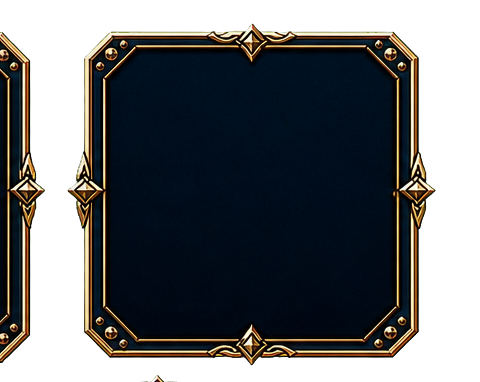
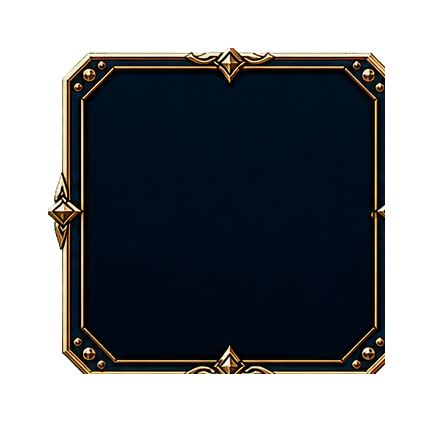
Remove stray art from fantasy frame with stage edit

Changed region(s): [[0.0, 0.0576, 0.9307, 0.9503], [0.3002, 0.9791, 0.3603, 1.0]]

diff --git a/src/styles.css b/src/styles.css
@@ -49,7 +49,7 @@ canvas {
   padding: 0 clamp(10px, 3vw, 20px) 14px;
   border: var(--fantasy-window-border) solid transparent;
   border-image-source: url("../assets/ui/fantasy/frame_parts/frame_window_9slice_safe.png");
-  border-image-slice: 110 fill;
+  border-image-slice: 132 fill;
   border-image-width: var(--fantasy-window-border);
   border-image-repeat: stretch;
   filter: drop-shadow(0 24px 36px rgba(0, 0, 0, 0.58));
@@ -513,7 +513,7 @@ canvas {
   padding: 0 clamp(8px, 3vw, 16px) 14px;
   border: var(--fantasy-window-border) solid transparent;
   border-image-source: url("../assets/ui/fantasy/frame_parts/frame_window_9slice_safe.png");
-  border-image-slice: 110 fill;
+  border-image-slice: 132 fill;
   border-image-width: var(--fantasy-window-border);
   border-image-repeat: stretch;
   filter: drop-shadow(0 24px 36px rgba(0, 0, 0, 0.58));

diff --git a/src/stages.ts b/src/stages.ts
@@ -81,11 +81,6 @@ export const ORIGINAL_DOWNTOWN_STAGE: StageDefinition = {
       "units": 19
     },
     {
-      "x": 768,
-      "y": 416,
-      "units": 4
-    },
-    {
       "x": 1100,
       "y": 452,
       "units": 3
@@ -519,10 +514,10 @@ export const ORIGINAL_DOWNTOWN_STAGE: StageDefinition = {
   "enemies": [
     {
       "type": "knifePunk",
-      "x": 520,
-      "y": 360,
-      "patrolLeft": 360,
-      "patrolRight": 660,
+      "x": 544,
+      "y": 512,
+      "patrolLeft": 384,
+      "patrolRight": 684,
       "speed": 72
     },
     {

diff --git a/src/main.ts b/src/main.ts
@@ -48,7 +48,7 @@ const GAME_HEIGHT = 720;
 const CAMERA_ZOOM = 1;
 const TILE = 32;
 const ASSET_BASE = import.meta.env.BASE_URL;
-const DEBUG_VERSION = "v0.1.104";
+const DEBUG_VERSION = "v0.1.105";
 const RAINBOW_PIPELINE_KEY = "RainbowWinPipeline";
 const GAME_TIME_SECONDS = 360;
 const GAME_TIME_MS = GAME_TIME_SECONDS * 1000;

diff --git a/RELEASE_NOTES.md b/RELEASE_NOTES.md
@@ -2,6 +2,12 @@
 
 Older entries through v0.1.100 were moved to `docs/RELEASE_NOTES_ARCHIVE.md`.
 
+## v0.1.105
+### English
+- Rebuilt the safe-padded fantasy window frame from the single modal frame so neighboring sheet art no longer appears on the left side.
+### Japanese
+- 安全余白付きのファンタジーウィンドウ枠を単体のモーダル枠から作り直し、左側に隣の素材が出ないようにしました。
+
 ## v0.1.104
 ### English
 - Recut the start and options UI frame, title, input, select, and button art with safer transparent padding so right-side ornaments do not clip.
